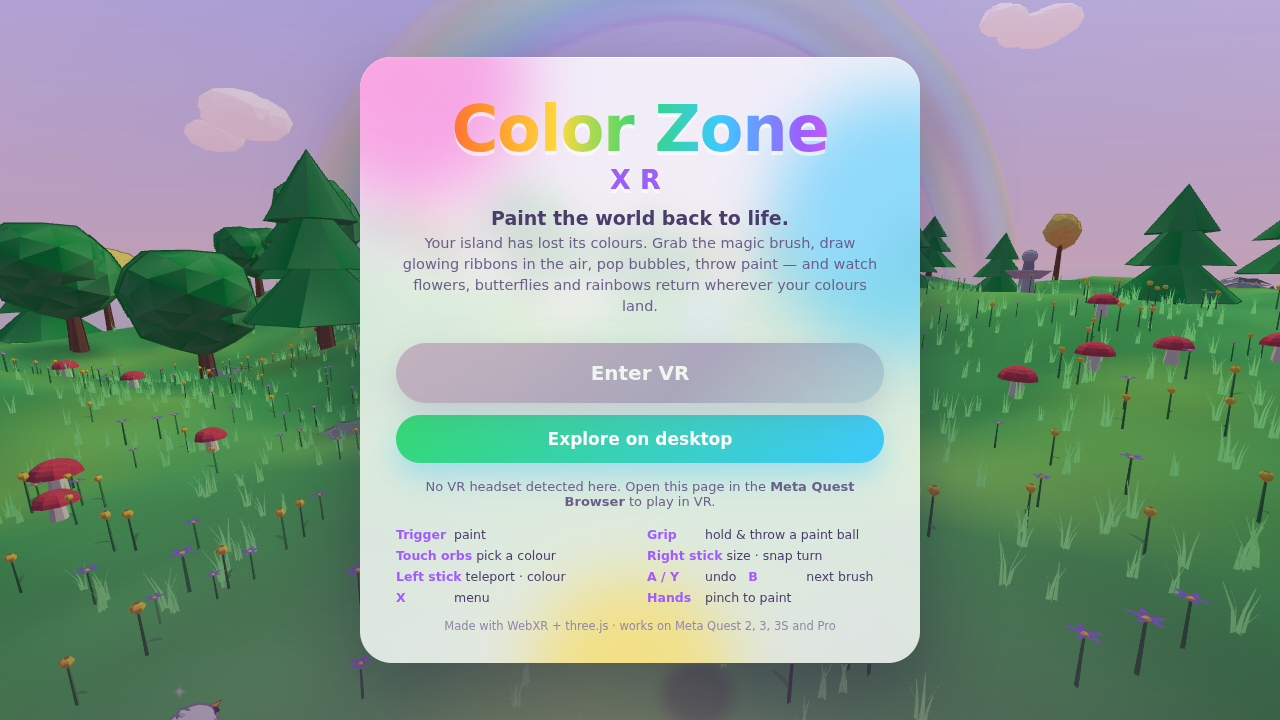
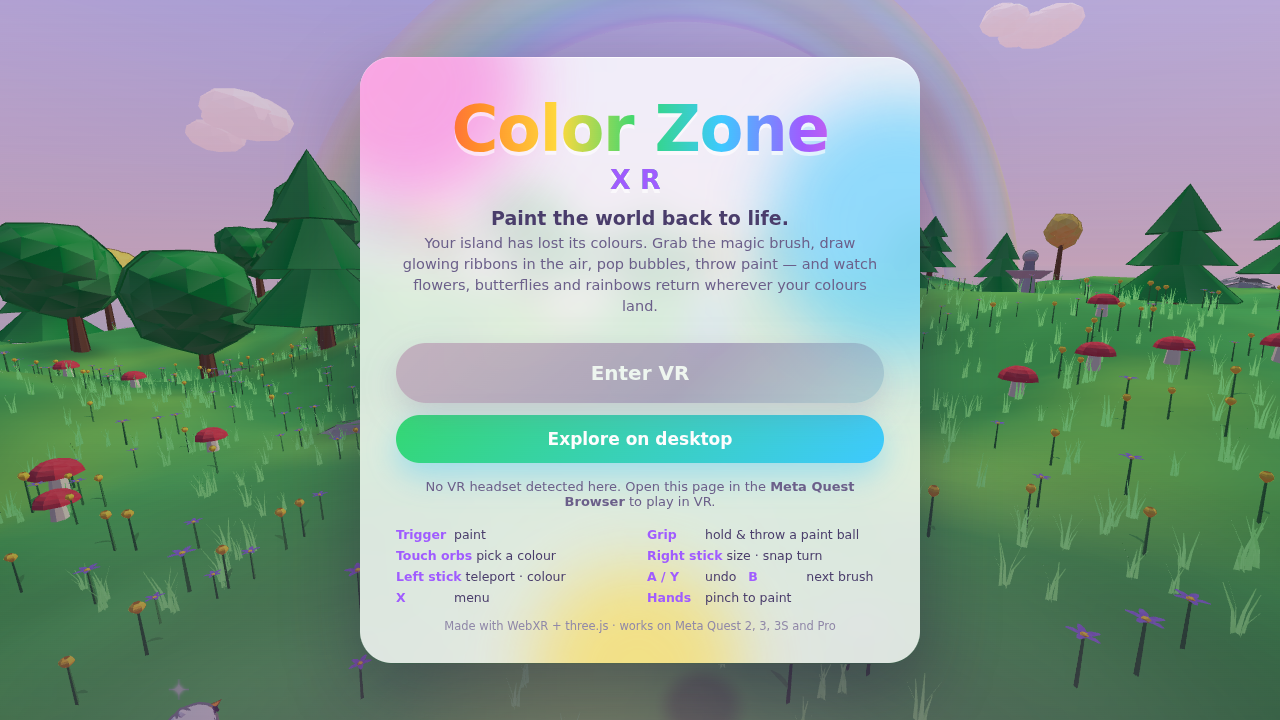
A true Exit: menu button ends VR, shuts the audio down and stops the app
- Menu: an Exit button (confirm first) beside Done. It saves, ends the XR
  session, closes the audio context and stops the frame loop, then the page
  shows "Thanks for playing" with a Play again button.
- Any session end (headset off, system menu) now pauses the audio so the
  title screen is silent; entering VR or desktop mode resumes it.
- The test suite ends its run through the Exit button and checks the loop
  stopped, the audio closed and the goodbye screen showed.

Claude-Session: https://claude.ai/code/session_019fquf7EQBYGX6aZbE38kPe

diff --git a/src/audio/Audio.js b/src/audio/Audio.js
@@ -47,6 +47,7 @@ export class Audio {
         /* ignore */
       }
     }
+    if (this.master && !this.muted) this.master.gain.setTargetAtTime(0.8, this.ctx.currentTime, 0.05);
     return this.ctx.state === 'running';
   }
 
@@ -186,6 +187,36 @@ export class Audio {
       this._tone(f, { type: 'triangle', attack: 0.008, decay: 0.07, gain: 0.05, sweepTo: f * (Math.random() < 0.5 ? 1.12 : 0.9), sweepTime: 0.06, reverb: 0.25, when: i * 0.085, pos });
       this._tone(f * 2.01, { type: 'sine', attack: 0.005, decay: 0.05, gain: 0.015, reverb: 0.2, when: i * 0.085, pos });
     }
+  }
+
+  /** go silent between sessions (headset off, back on the title screen); resume() brings it back */
+  pause() {
+    if (!this.ctx) return;
+    try {
+      if (this.master) this.master.gain.setTargetAtTime(0, this.ctx.currentTime, 0.05);
+      if (this.ctx.state === 'running') this.ctx.suspend();
+    } catch (e) {
+      /* ignore */
+    }
+  }
+
+  /** a true stop: fade, then close the context so nothing can make a sound again */
+  shutdown() {
+    if (!this.ctx) return;
+    const ctx = this.ctx;
+    try {
+      if (this.master) this.master.gain.setTargetAtTime(0, ctx.currentTime, 0.05);
+    } catch (e) {
+      /* ignore */
+    }
+    this.ready = false;
+    setTimeout(() => {
+      try {
+        ctx.close();
+      } catch (e) {
+        /* ignore */
+      }
+    }, 300);
   }
 
   setMuted(m) {

diff --git a/index.html b/index.html
@@ -81,6 +81,8 @@
       backdrop-filter: blur(10px); font-size: 12px; color: #4a3d6b; line-height: 1.5; pointer-events: none; white-space: nowrap;
     }
     #desktop-help.hidden { display: none; }
+    #goodbye.hidden { display: none; }
+    #overlay.bye .tagline:not(#goodbye .tagline), #overlay.bye .sub:not(#goodbye .sub), #overlay.bye .buttons:not(#goodbye .buttons), #overlay.bye .hint, #overlay.bye .controls { display: none; }
     #desktop-help b { color: var(--grape); }
     .credit { margin-top: 14px; font-size: 11.5px; color: #9088a8; }
   </style>
@@ -97,6 +99,11 @@
         <h1>Color Zone<small>XR</small></h1>
         <p class="tagline">Paint the world back to life.</p>
         <p class="sub">Your island has lost its colours. Grab the magic brush, draw glowing ribbons in the air, pop bubbles, throw paint — and watch flowers, butterflies and rainbows return wherever your colours land.</p>
+        <div id="goodbye" class="hidden">
+          <p class="tagline">Thanks for playing! 👋</p>
+          <p class="sub">Your painting is saved on this headset. Come back any time.</p>
+          <div class="buttons"><button id="btn-again" class="big">Play again</button></div>
+        </div>
         <div class="buttons">
           <button id="btn-vr" class="big" disabled>Enter VR</button>
           <button id="btn-desktop" class="big secondary">Explore on desktop</button>

diff --git a/src/App.js b/src/App.js
@@ -215,7 +215,32 @@ export class App {
   stopDesktop() {
     this.desktop.disable();
     this.mode = 'attract';
+    if (this.audio) this.audio.pause();
     this.events.emit('modechange', this.mode);
+  }
+
+  /**
+   * A true exit: save, leave VR, silence the audio for good and stop the
+   * frame loop, so the page is inert afterwards (main.js shows a goodbye).
+   */
+  async exitVR() {
+    if (this.exited) return;
+    this.exited = true;
+    for (const b of this.brushes) b.cancel();
+    if (this.saveGame && this.saveGame.dirty) this.saveGame.save();
+    if (this.audio) this.audio.shutdown();
+    const session = this.session;
+    if (session) {
+      try {
+        await session.end();
+      } catch (e) {
+        /* already ending */
+      }
+    } else if (this.mode === 'desktop') {
+      this.stopDesktop();
+    }
+    this.renderer.setAnimationLoop(null);
+    this.events.emit('exit');
   }
 
   async isVRSupported() {
@@ -265,6 +290,7 @@ export class App {
     this.camera.position.set(0, WORLD.eyeHeight, 0);
     this.camera.rotation.set(0, 0, 0);
     this.onResize();
+    if (this.audio && !this.exited) this.audio.pause(); // headset off / system exit: go quiet until the next session
     this.events.emit('modechange', this.mode);
     this.events.emit('sessionend');
   }

diff --git a/src/ui/Text.js b/src/ui/Text.js
@@ -298,6 +298,24 @@ export function drawIcon(ctx, id, cx, cy, s, color = '#ffffff') {
       }
       break;
     }
+    case 'exit': {
+      ctx.lineWidth = s * 0.1;
+      ctx.beginPath();
+      ctx.moveTo(s * 0.05, -s * 0.42);
+      ctx.lineTo(-s * 0.4, -s * 0.42);
+      ctx.lineTo(-s * 0.4, s * 0.42);
+      ctx.lineTo(s * 0.05, s * 0.42);
+      ctx.stroke();
+      ctx.lineWidth = s * 0.14;
+      ctx.beginPath();
+      ctx.moveTo(-s * 0.15, 0);
+      ctx.lineTo(s * 0.45, 0);
+      ctx.moveTo(s * 0.2, -s * 0.24);
+      ctx.lineTo(s * 0.45, 0);
+      ctx.lineTo(s * 0.2, s * 0.24);
+      ctx.stroke();
+      break;
+    }
     case 'check': {
       ctx.lineWidth = s * 0.16;
       ctx.beginPath();

diff --git a/src/ui/Menu.js b/src/ui/Menu.js
@@ -87,6 +87,7 @@ export class Menu {
     row2.forEach((b, i) => {
       this.buttons.push({ ...b, rect: [x0 + i * (bw + gap), 410, bw, 175] });
     });
+    this.buttons.push({ id: 'exit', icon: 'exit', label: 'Exit', rect: [PW - 480, 36, 200, 84], small: true, confirm: 'Sure?' });
     this.buttons.push({ id: 'close', icon: 'check', label: 'Done', rect: [PW - 250, 36, 200, 84], small: true });
   }
 
@@ -256,6 +257,10 @@ export class Menu {
     else if (b.id === 'newworld') app.newWorld();
     else if (b.id === 'close') {
       this.close();
+      return;
+    } else if (b.id === 'exit') {
+      this.close();
+      app.exitVR();
       return;
     }
     if (app.audio) app.audio.select(0.6);

diff --git a/src/main.js b/src/main.js
@@ -61,9 +61,18 @@ app.events.on('modechange', (mode) => {
 });
 
 app.events.on('sessionend', () => {
+  if (app.exited) return;
   btnVR.disabled = false;
   showOverlay(true);
 });
+
+app.events.on('exit', () => {
+  overlay.classList.add('bye');
+  document.getElementById('goodbye').classList.remove('hidden');
+  showOverlay(true);
+});
+
+document.getElementById('btn-again').addEventListener('click', () => location.reload());
 
 window.addEventListener('keydown', (e) => {
   if (e.code === 'Escape' && app.mode === 'desktop' && !document.pointerLockElement) {

diff --git a/README.md b/README.md
@@ -81,7 +81,7 @@ That serves `http://localhost:8080` for the desktop preview and, if `openssl` is
 | Teleport | Push left stick forward, aim, release | — | WASD to walk |
 | Snap turn 30° | Flick right stick left / right | — | Mouse look |
 
-The floating menu (point a wand's laser at a button and pull the trigger, or just poke it) has all six brushes, brush size, sound, undo, *Clear*, and *New world*, which rolls a brand-new island.
+The floating menu (point a wand's laser at a button and pull the trigger, or just poke it) has all six brushes, brush size, sound, undo, *Clear*, *New world*, which rolls a brand-new island, and *Exit*, which saves, leaves VR and shuts the app down completely (no sound, no rendering) until you press *Play again*.
 
 ## Brushes
 
